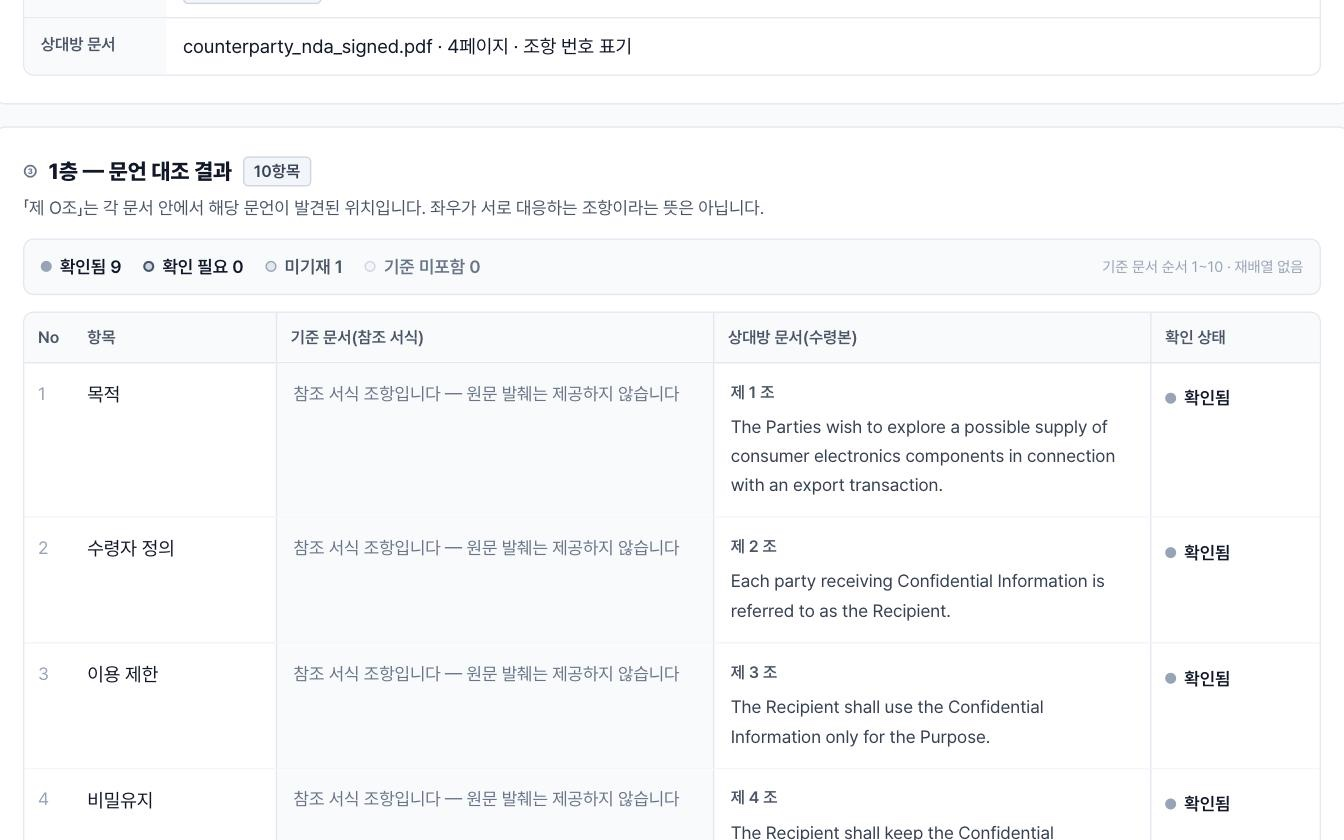
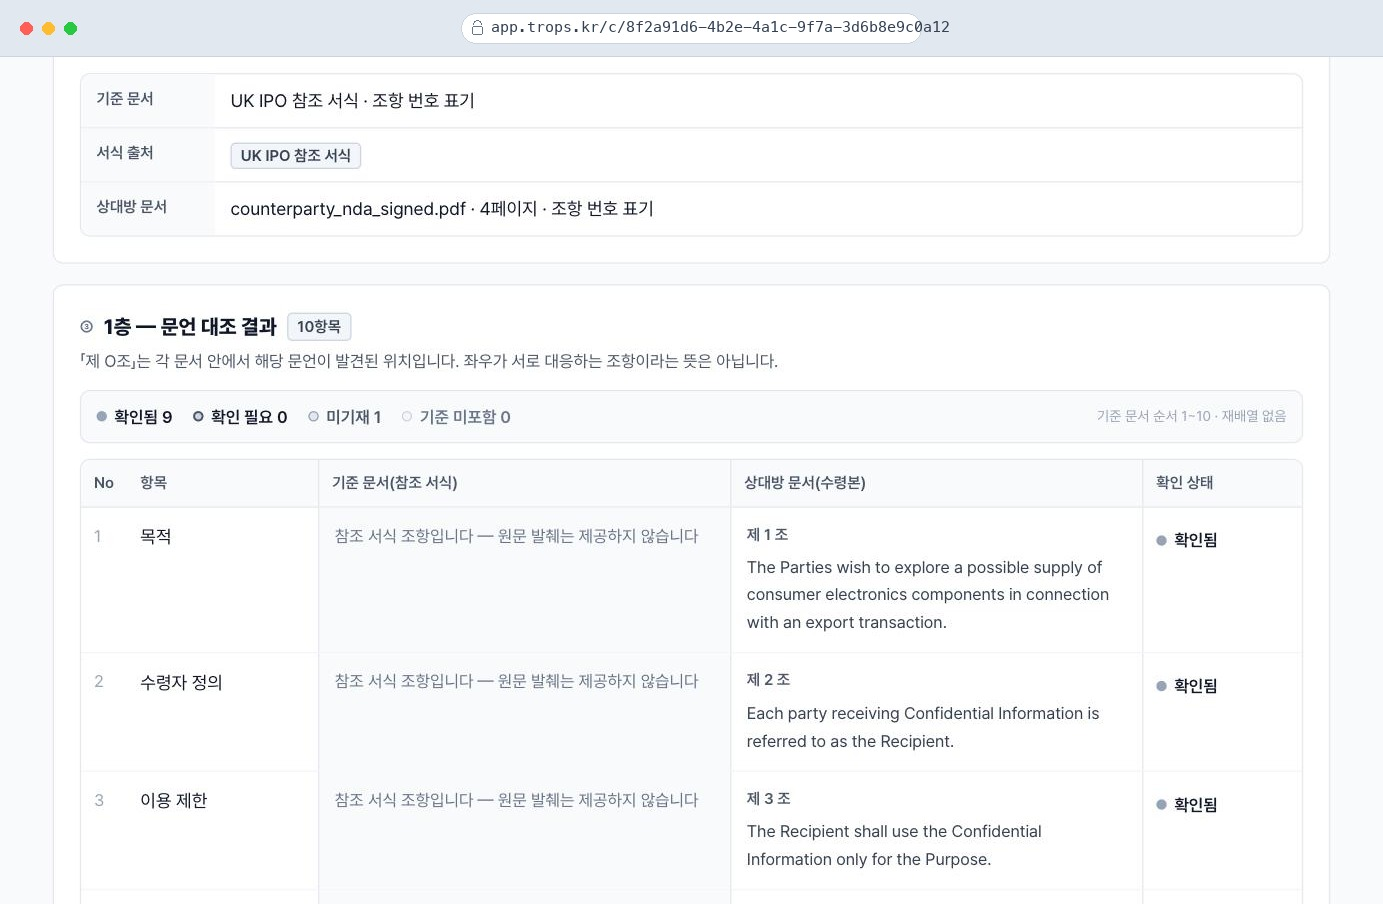
fix(landing): C-03 결과지 재캡처 — 앱 프레임(브라우저 창) 포함
기존 캡처(c03-result.jpg · c03-result-detail.jpg)는 결과 표만 크롭돼 있어
"떠 있는 표"처럼 보인다는 피드백. C-03(/c/[token])은 설계상 셸이 없는
화면이다(screen-contracts "화면 C-03" · page.tsx 주석 — 로그인 없는 공개
페이지 · 계정/결제 UI 0 · 탭바 밖) — 실제로 사이드바·헤더 검색창·로그인
이메일을 절대 보여주지 않으므로 그런 셸을 지어 넣지 않는다(제품 동작과
어긋나는 화면을 만들지 않는다). 대신 범용 브라우저 창 프레임(둥근 점 3개
+ 자물쇠 아이콘과 URL이 있는 주소창 — 특정 브라우저 제품을 흉내내지 않음)
으로 감싸서 "이게 실제로 열어보는 웹페이지"라는 맥락을 준다.

- img/c03-result.jpg 교체: 문서 정보 + "1층 문언 대조 결과"(배지·표
  1~3행)를 브라우저 창 프레임 안에 담은 새 캡처(1383×904).
- img/c03-result-detail.jpg 교체: 같은 표의 "확인됨"/"대응 문구 미확인"
  대비 확대 컷(888×258, 이전과 같은 구도·같은 대비 재현).
- index.html·en.html: `.shot`·`.shot-crop` aspect-ratio를 새 이미지 실측
  값으로 갱신(1383/904 · 888/258). 이미지·캡션 문구는 그대로 유지 — 파일만
  교체.
- 캡처 데이터는 이전과 동일한 가상 NDA 샘플(Alpha Trading Co./Beta
  Sourcing Inc. — 실제 고객 정보 아님). 프레임 안 URL(app.trops.kr/c/…)도
  실제 레코드를 가리키지 않는 예시 문자열이다.

npm run build · npm test(244) 통과. 로컬 dist 서빙으로 국·영문 페이지 모두
육안 확인 완료.

diff --git a/en.html b/en.html
@@ -638,10 +638,14 @@
   .trust-list { display: flex; flex-direction: column; gap: 10px; margin-bottom: 48px; }
   .trust-list p { margin: 0; font-size: 16.5px; line-height: 1.76; color: var(--d-ink-secondary); }
   .trust-list .sub { color: var(--d-ink-tertiary); }
-  /* 이미지 자리 — 테두리는 --line 대신 흰색 헤어라인 (C-5). 실물 캡처(2026-08-13) 반영 완료. */
+  /* 이미지 자리 — 테두리는 --line 대신 흰색 헤어라인 (C-5). 실물 캡처(2026-08-13 · 재캡처
+     2026-08-13 앱 프레임 포함) 반영 완료. 종횡비는 캡처 원본 그대로(1383×904) —
+     실제 화면은 셸이 없으므로(C-03 정본 — 로그인 없는 공개 페이지) 사이드바·헤더를
+     지어 넣지 않고, 대신 일반적인 브라우저 창 프레임(주소창·점 3개)으로 "떠 있는 표"
+     느낌을 없앤다. 브라우저 창 특정 제품을 흉내내지 않는다(범용 표현). */
   .shot {
     display: block;
-    aspect-ratio: 16 / 10;
+    aspect-ratio: 1383 / 904;
     overflow: hidden;
     border: 1px solid var(--d-line);
     border-radius: 6px;
@@ -650,11 +654,11 @@
   .shot img { display: block; width: 100%; height: 100%; object-fit: cover; }
   .shot-caption { margin: 16px 0 0; font-size: 12.5px; line-height: 1.7; color: var(--d-ink-tertiary); }
   /* 크롭 컷이 "위 결과지의 확대"로 읽히도록 겹쳐 놓습니다. 종횡비는 크롭 이미지
-     원본 그대로(886×278) — .shot 의 16/10 을 그대로 쓰면 object-fit: cover 가
+     원본 그대로(888×258) — .shot 의 종횡비를 그대로 쓰면 object-fit: cover 가
      상태 열을 잘라낸다. */
   .shot-crop {
     width: 56%;
-    aspect-ratio: 886 / 278;
+    aspect-ratio: 888 / 258;
     margin-left: 120px;
     margin-top: -56px;
     box-shadow: 0 12px 40px rgba(0, 0, 0, .45);

diff --git a/index.html b/index.html
@@ -603,10 +603,14 @@
   .trust-list { display: flex; flex-direction: column; gap: 10px; margin-bottom: 48px; }
   .trust-list p { margin: 0; font-size: 16.5px; line-height: 1.76; color: var(--d-ink-secondary); }
   .trust-list .sub { color: var(--d-ink-tertiary); }
-  /* 이미지 자리 — 테두리는 --line 대신 흰색 헤어라인 (C-5). 실물 캡처(2026-08-13) 반영 완료. */
+  /* 이미지 자리 — 테두리는 --line 대신 흰색 헤어라인 (C-5). 실물 캡처(2026-08-13 · 재캡처
+     2026-08-13 앱 프레임 포함) 반영 완료. 종횡비는 캡처 원본 그대로(1383×904) —
+     실제 화면은 셸이 없으므로(C-03 정본 — 로그인 없는 공개 페이지) 사이드바·헤더를
+     지어 넣지 않고, 대신 일반적인 브라우저 창 프레임(주소창·점 3개)으로 "떠 있는 표"
+     느낌을 없앤다. 브라우저 창 특정 제품을 흉내내지 않는다(범용 표현). */
   .shot {
     display: block;
-    aspect-ratio: 16 / 10;
+    aspect-ratio: 1383 / 904;
     overflow: hidden;
     border: 1px solid var(--d-line);
     border-radius: 6px;
@@ -615,11 +619,11 @@
   .shot img { display: block; width: 100%; height: 100%; object-fit: cover; }
   .shot-caption { margin: 16px 0 0; font-size: 12.5px; line-height: 1.7; color: var(--d-ink-tertiary); }
   /* 크롭 컷이 "위 결과지의 확대"로 읽히도록 겹쳐 놓습니다. 종횡비는 크롭 이미지
-     원본 그대로(886×278) — .shot 의 16/10 을 그대로 쓰면 object-fit: cover 가
+     원본 그대로(888×258) — .shot 의 종횡비를 그대로 쓰면 object-fit: cover 가
      상태 열을 잘라낸다. */
   .shot-crop {
     width: 56%;
-    aspect-ratio: 886 / 278;
+    aspect-ratio: 888 / 258;
     margin-left: 120px;
     margin-top: -56px;
     box-shadow: 0 12px 40px rgba(0, 0, 0, .45);
